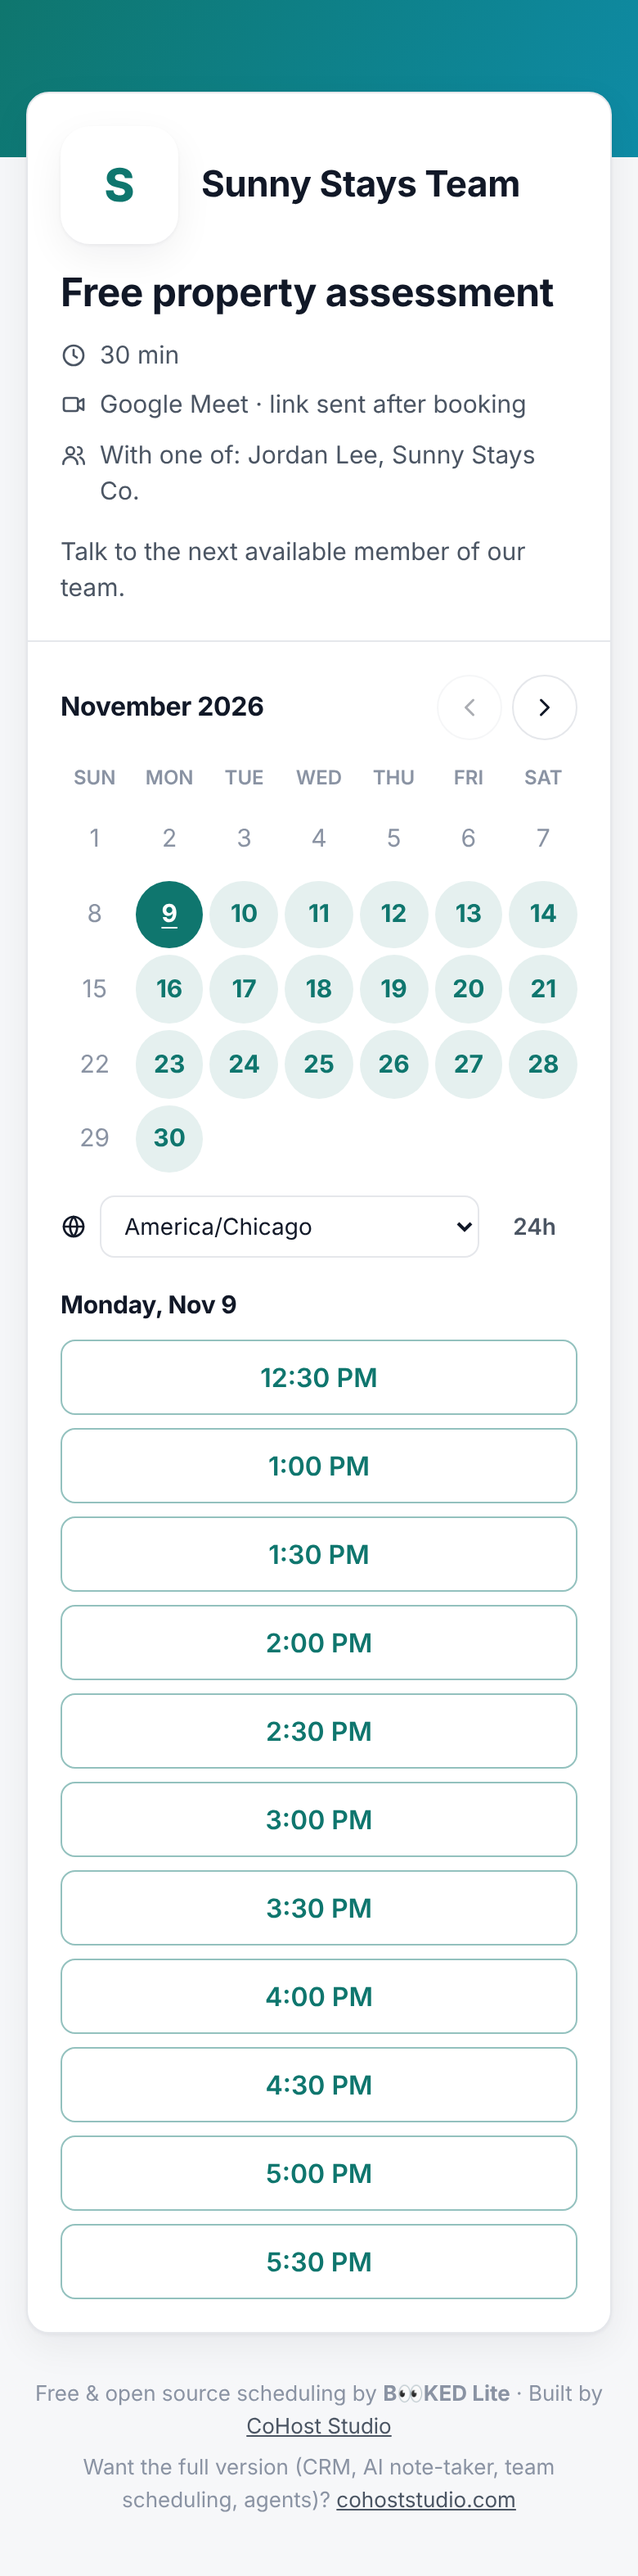
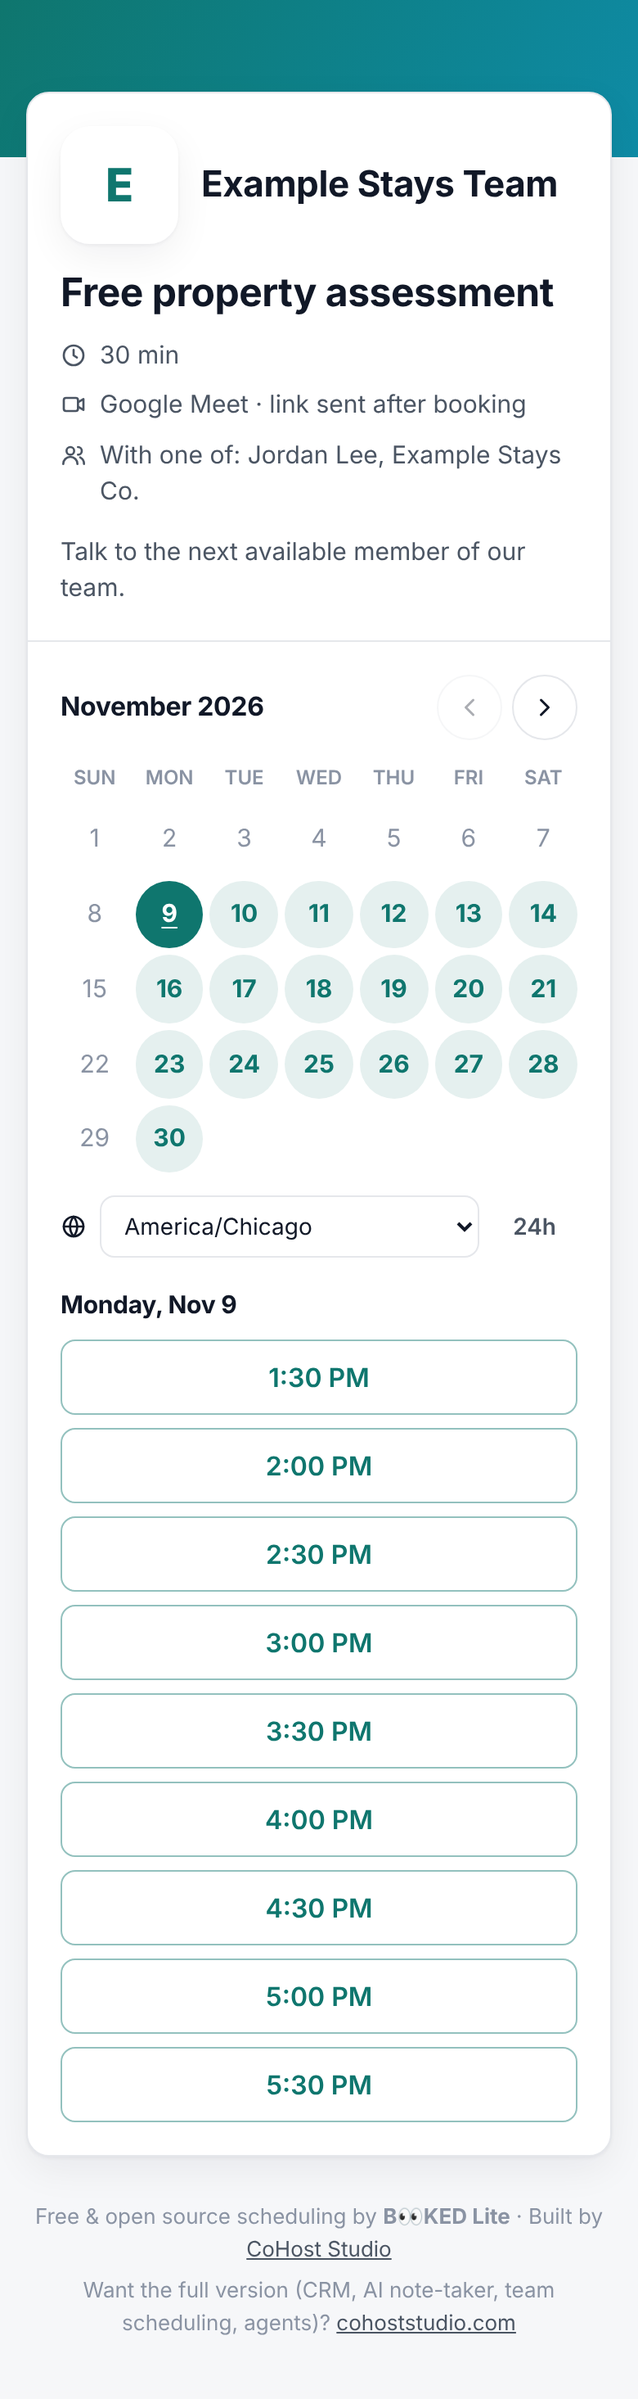
Use clearly fictional placeholders in docs, demo data and tests
Swap example business names, domains and street addresses that could belong
to real people or companies for obviously fictional ones:
- sunnystays.com -> example.com (EMAIL_FROM, APP_URL and domain examples)
- 'Sunny Stays' -> 'Example Stays' (demo host, team, slugs, placeholders)
- Galveston/Austin street addresses -> 'Anytown' addresses
Screenshots regenerated with the new demo data.

Claude-Session: https://claude.ai/code/session_01YPPtRp71J4ZfM5YFDMZosc

diff --git a/e2e/teams-zoom-embed.spec.ts b/e2e/teams-zoom-embed.spec.ts
@@ -1,12 +1,12 @@
 import { test, expect } from "@playwright/test";
 import { calendar, fillGuest, openDay, outbox, zoom } from "./helpers";
 
-// Demo team (see scripts/seed.ts): Sunny Stays Co. works 9–5 Chicago, Jordan works 9–5 Denver (= 10–6 Chicago).
+// Demo team (see scripts/seed.ts): Example Stays Co. works 9–5 Chicago, Jordan works 9–5 Denver (= 10–6 Chicago).
 // The fake calendar is busy 10:00–12:00 Chicago for both on the test day.
 
 test("round robin: guests go to whoever is free, taking turns", async ({ page }) => {
-  await page.goto("/team/sunny-stays");
-  await expect(page.getByRole("heading", { name: "Sunny Stays Team" })).toBeVisible();
+  await page.goto("/team/example-stays");
+  await expect(page.getByRole("heading", { name: "Example Stays Team" })).toBeVisible();
   await page.getByRole("link", { name: /Free property assessment/ }).click();
   await openDay(page);
   // Union of both people's hours: 9:00 (only the owner) and 5:30 PM (only Jordan) are both offered.
@@ -15,7 +15,7 @@ test("round robin: guests go to whoever is free, taking turns", async ({ page })
 
   const hosts: string[] = [];
   for (const guest of ["Ana", "Ben"]) {
-    await page.goto("/team/sunny-stays/assessment");
+    await page.goto("/team/example-stays/assessment");
     await openDay(page);
     await page.getByRole("button", { name: "2:00 PM", exact: true }).click();
     await fillGuest(page, guest, `${guest.toLowerCase()}@example.com`);
@@ -26,20 +26,20 @@ test("round robin: guests go to whoever is free, taking turns", async ({ page })
     hosts.push((await page.getByText(/Free property assessment/).locator("..").textContent()) ?? "");
   }
   expect(hosts[0]).toContain("Jordan Lee");
-  expect(hosts[1]).toContain("Sunny Stays Co.");
+  expect(hosts[1]).toContain("Example Stays Co.");
   // Each host got the event on their own calendar.
   const events = calendar().events.filter((e: { title: string }) => e.title.startsWith("Free property assessment"));
   expect(new Set(events.map((e: { userId: string }) => e.userId)).size).toBe(2);
 
   // Both people are now busy at 2:00, so it's no longer offered.
-  await page.goto("/team/sunny-stays/assessment");
+  await page.goto("/team/example-stays/assessment");
   await openDay(page);
   await expect(page.getByRole("button", { name: "2:30 PM", exact: true })).toBeVisible();
   await expect(page.getByRole("button", { name: "2:00 PM", exact: true })).toHaveCount(0);
 });
 
 test("everyone-together events only offer times when the whole team is free", async ({ page }) => {
-  await page.goto("/team/sunny-stays/kickoff");
+  await page.goto("/team/example-stays/kickoff");
   await openDay(page);
   await expect(page.getByRole("button", { name: "12:00 PM", exact: true })).toBeVisible();
   await expect(page.getByRole("button", { name: "9:00 AM", exact: true })).toHaveCount(0); // Jordan isn't working yet
@@ -47,7 +47,7 @@ test("everyone-together events only offer times when the whole team is free", as
   await page.getByRole("button", { name: "12:00 PM", exact: true }).click();
   await fillGuest(page, "Cara Owner", "cara@example.com");
   await page.getByRole("button", { name: "Confirm booking" }).click();
-  await expect(page.getByText(/with Sunny Stays Co\. & Jordan Lee|with Jordan Lee & Sunny Stays Co\./)).toBeVisible();
+  await expect(page.getByText(/with Example Stays Co\. & Jordan Lee|with Jordan Lee & Example Stays Co\./)).toBeVisible();
   const hostMails = outbox().filter((m) => m.subject.startsWith("New booking: Owner kickoff"));
   expect(hostMails.map((m) => m.to).sort()).toEqual(["demo@example.com", "jordan@example.com"]);
 });
@@ -126,7 +126,7 @@ test("team owner invites a teammate who joins with a magic link", async ({ page,
   await page.getByRole("button", { name: "Continue to my dashboard" }).click();
 
   await page.getByRole("link", { name: "Team", exact: true }).click();
-  await expect(page.getByRole("heading", { name: "Sunny Stays Team" })).toBeVisible();
+  await expect(page.getByRole("heading", { name: "Example Stays Team" })).toBeVisible();
   await page.getByLabel("Invite a teammate by email").fill("riley@example.com");
   await page.getByRole("button", { name: "Send invite" }).click();
   await expect(page.getByText("Invite sent to riley@example.com")).toBeVisible();
@@ -136,7 +136,7 @@ test("team owner invites a teammate who joins with a magic link", async ({ page,
   await expect(page.getByTestId("embed-snippet")).toContainText('<script src="http://localhost:3100/embed.js" async></script>');
 
   const invite = outbox().reverse().find((m) => m.to === "riley@example.com");
-  expect(invite.subject).toContain("invited you to join Sunny Stays Team");
+  expect(invite.subject).toContain("invited you to join Example Stays Team");
   const mate = await browser.newPage();
   await mate.goto(invite.text.match(/https?:\/\/\S+/)[0].replace(/^https?:\/\/[^/]+/, "http://localhost:3100"));
   await mate.getByRole("button", { name: "Accept & continue" }).click();

diff --git a/e2e/screenshots.spec.ts b/e2e/screenshots.spec.ts
@@ -29,7 +29,7 @@ async function book(page: Page, time: string, name: string, email: string) {
   await page.getByRole("button", { name: time, exact: true }).click();
   await page.getByLabel("Your name").fill(name);
   await page.getByLabel("Email").fill(email);
-  await page.getByLabel("Property address").fill("88 Seawall Blvd, Galveston TX");
+  await page.getByLabel("Property address").fill("2 Sample Ave, Anytown");
   await page.getByRole("button", { name: "Confirm booking" }).click();
   await expect(page.getByTestId("booking-heading")).toBeVisible();
 }
@@ -54,7 +54,7 @@ test("screenshots", async ({ browser }) => {
     await page.goto("/demo");
     await shot(page, `${s.name}-profile`);
 
-    await page.goto("/team/sunny-stays/assessment");
+    await page.goto("/team/example-stays/assessment");
     await expect(page.getByRole("grid", { name: "Choose a day" })).toBeVisible();
     await page.waitForTimeout(500);
     await shot(page, `${s.name}-team-event`);
@@ -81,7 +81,7 @@ test("screenshots", async ({ browser }) => {
     await page.getByLabel("Your name").fill("Sam Guest");
     await page.getByLabel("Email").fill("sam@example.com");
     await shot(page, `${s.name}-booking-form`);
-    await page.getByLabel("Property address").fill("12 Beach Rd, Galveston TX");
+    await page.getByLabel("Property address").fill("1 Example Rd, Anytown");
     await page.getByRole("button", { name: "Confirm booking" }).click();
     await expect(page.getByTestId("booking-heading")).toBeVisible();
     await shot(page, `${s.name}-confirmed`);

diff --git a/e2e/booking.spec.ts b/e2e/booking.spec.ts
@@ -4,7 +4,7 @@ import { calendar, meta, openDay, outbox } from "./helpers";
 test("a guest books, gets an email + calendar event, and can cancel", async ({ page }) => {
   const { date } = meta();
   await page.goto("/demo");
-  await expect(page.getByRole("heading", { name: "Sunny Stays Co." })).toBeVisible();
+  await expect(page.getByRole("heading", { name: "Example Stays Co." })).toBeVisible();
   await expect(page.getByText("Built by")).toBeVisible();
   await page.getByRole("link", { name: /Owner intro call/ }).click();
 
@@ -21,7 +21,7 @@ test("a guest books, gets an email + calendar event, and can cancel", async ({ p
   await expect(page.getByTestId("selected-time")).toContainText("1:00 PM");
   await page.getByLabel("Your name").fill("Sam Guest");
   await page.getByLabel("Email").fill("sam@example.com");
-  await page.getByLabel("Property address").fill("12 Beach Rd, Galveston");
+  await page.getByLabel("Property address").fill("1 Example Rd, Anytown");
   await page.getByRole("button", { name: "Confirm booking" }).click();
 
   await expect(page.getByTestId("booking-heading")).toHaveText("You're booked! 🎉");

diff --git a/scripts/seed.ts b/scripts/seed.ts
@@ -26,8 +26,8 @@ async function main() {
     id: userId,
     email,
     username: "demo",
-    name: "Sunny Stays Co.",
-    bio: "We host 12 homes on the Gulf Coast. Grab a time to talk about co-hosting, cleaning schedules, or your next stay.",
+    name: "Example Stays Co.",
+    bio: "We host 12 vacation homes. Grab a time to talk about co-hosting, cleaning schedules, or your next stay.",
     timezone: "America/Chicago",
     brandColor: "#0f766e",
   });
@@ -106,7 +106,7 @@ async function main() {
     brandColor: "#0f766e",
   });
   await db.insert(schema.availability).values({ userId: mateId, weekly: DEFAULT_WEEKLY, overrides: [] });
-  await db.insert(schema.teams).values({ id: "demo-team", ownerId: userId, name: "Sunny Stays Team", slug: "sunny-stays" });
+  await db.insert(schema.teams).values({ id: "demo-team", ownerId: userId, name: "Example Stays Team", slug: "example-stays" });
   await db.insert(schema.teamMembers).values([
     { userId, teamId: "demo-team", role: "owner" },
     { userId: mateId, teamId: "demo-team", role: "member" },

diff --git a/src/app/admin/settings/ProfileForm.tsx b/src/app/admin/settings/ProfileForm.tsx
@@ -62,7 +62,7 @@ export function ProfileForm(p: Props) {
       <div className="grid-2">
         <div>
           <label htmlFor="name">Name shown to guests</label>
-          <input id="name" name="name" type="text" defaultValue={p.name} maxLength={80} placeholder="Alex at Sunny Stays" />
+          <input id="name" name="name" type="text" defaultValue={p.name} maxLength={80} placeholder="Alex at Example Stays" />
         </div>
         <div>
           <label htmlFor="username">Your link name</label>
@@ -72,7 +72,7 @@ export function ProfileForm(p: Props) {
       </div>
       <div>
         <label htmlFor="bio">Short intro</label>
-        <textarea id="bio" name="bio" defaultValue={p.bio} maxLength={1000} placeholder="Short-term rental host in Austin. Book a time to chat about your property." />
+        <textarea id="bio" name="bio" defaultValue={p.bio} maxLength={1000} placeholder="Short-term rental host. Book a time to chat about your property." />
       </div>
       <div>
         <label htmlFor="brandColor">Brand color</label>

diff --git a/tests/lib.test.ts b/tests/lib.test.ts
@@ -57,7 +57,7 @@ describe("locations", () => {
   it("resolves each meeting type", () => {
     expect(resolveLocation("link", "https://zoom.us/j/1", "x")).toBe("https://zoom.us/j/1");
     expect(resolveLocation("phone", "", "x", "+1 555 0100")).toBe("Phone: +1 555 0100");
-    expect(resolveLocation("in_person", "12 Beach Rd", "x")).toBe("12 Beach Rd");
+    expect(resolveLocation("in_person", "1 Example Rd", "x")).toBe("1 Example Rd");
     expect(isUrl("https://x.y/z")).toBe(true);
     expect(isUrl("javascript:alert(1)")).toBe(false);
   });
@@ -69,7 +69,7 @@ describe("misc", () => {
     expect(readableInk("#0f766e")).toBe("#ffffff");
   });
   it("slugifies names", () => {
-    expect(slugify("  Sunny Stays Co.! ")).toBe("sunny-stays-co");
+    expect(slugify("  Example Stays Co.! ")).toBe("example-stays-co");
     expect(slugify("Café Déjà")).toBe("cafe-deja");
   });
 });

diff --git a/src/app/admin/team/TeamForms.tsx b/src/app/admin/team/TeamForms.tsx
@@ -19,7 +19,7 @@ export function CreateTeamForm() {
     <form action={action} className="stack-sm">
       <label htmlFor="team-name">Team name</label>
       <div className="row">
-        <input id="team-name" name="name" type="text" placeholder="Sunny Stays team" required maxLength={80} style={{ flex: "1 1 220px" }} />
+        <input id="team-name" name="name" type="text" placeholder="My rental team" required maxLength={80} style={{ flex: "1 1 220px" }} />
         <button className="btn" disabled={pending}>Create team</button>
       </div>
       <Status state={state} />

diff --git a/src/app/admin/events/[id]/EventForm.tsx b/src/app/admin/events/[id]/EventForm.tsx
@@ -186,7 +186,7 @@ export function EventForm({ eventType: et, baseUrl, teamBaseUrl, team, people, h
           {locationType === "in_person" && (
             <>
               <label htmlFor="locationValue">Address</label>
-              <input id="locationValue" name="locationValue" type="text" defaultValue={et.locationValue} placeholder="123 Main St, Austin, TX" />
+              <input id="locationValue" name="locationValue" type="text" defaultValue={et.locationValue} placeholder="1 Example Rd, Anytown" />
             </>
           )}
         </div>

diff --git a/src/lib/email/templates.ts b/src/lib/email/templates.ts
@@ -20,7 +20,7 @@ export function displayName(u: User) {
   return u.name || u.username;
 }
 
-/** "Alex", "Alex & Sam", or "Alex (Sunny Stays)" for team events. */
+/** "Alex", "Alex & Sam", or "Alex (Example Stays)" for team events. */
 export function hostLabel(ctx: Pick<BookingCtx, "hosts" | "team" | "owner">) {
   const names = (ctx.hosts.length ? ctx.hosts : [ctx.owner]).map(displayName).join(" & ");
   return ctx.team ? `${names} (${ctx.team.name})` : names;

diff --git a/tests/ics.test.ts b/tests/ics.test.ts
@@ -10,7 +10,7 @@ describe("ics", () => {
     title: "Owner intro call, with Sam; welcome",
     description: "Line one\nLine two",
     location: "https://meet.jit.si/OwnerIntro-abc",
-    organizer: { name: "Sunny Stays", email: "host@example.com" },
+    organizer: { name: "Example Stays", email: "host@example.com" },
     attendee: { name: 'Sam "The Guest"', email: "sam@example.com" },
     method: "REQUEST",
     now: Date.UTC(2026, 10, 9, 12, 0),

diff --git a/tests/email-mode.test.ts b/tests/email-mode.test.ts
@@ -18,7 +18,7 @@ describe("guest email mode (no domain yet → forward to host)", () => {
   });
   it("emails guests directly from a verified domain", () => {
     vi.stubEnv("RESEND_API_KEY", "re_test");
-    vi.stubEnv("EMAIL_FROM", "Sunny Stays <bookings@sunnystays.com>");
+    vi.stubEnv("EMAIL_FROM", "Example Stays <bookings@example.com>");
     expect(guestEmailMode()).toBe("send");
   });
 });

diff --git a/SETUP.md b/SETUP.md
@@ -71,7 +71,7 @@ Keep a **private note** open (Apple Notes, a password manager, or paper) to hold
    - Click **Add**, then copy the key (starts with `re_`) into your note as **RESEND_API_KEY**.
 
 **About emailing guests (please read, it's the #1 surprise):**
-Resend only sends email to *other people* once you prove you own a web address (a "domain", like `sunnystays.com`).
+Resend only sends email to *other people* once you prove you own a web address (a "domain", like `example.com`).
 **You don't need one to get started.** Without a domain:
 
 - ✅ You sign in, get "New booking" emails and test everything as normal.
@@ -89,7 +89,7 @@ No domain yet? See **"No domain yet?"** below (about $10 a year). Either way you
    Cloudflare…). If Resend offers an automatic setup button for your provider, use it. Otherwise search
    "add DNS record" + your provider's name for their help page. Then click **Verify**. It can take a few minutes
    up to a few hours.
-4. Once it says **Verified**, add **EMAIL_FROM** in Vercel (step 4), e.g. `Sunny Stays <bookings@sunnystays.com>`
+4. Once it says **Verified**, add **EMAIL_FROM** in Vercel (step 4), e.g. `Example Stays <bookings@example.com>`
    (any name before the @ works, as long as it's your verified domain), then **Redeploy**.
    Until then, leave EMAIL_FROM empty.
 
@@ -158,7 +158,7 @@ Google's screens change often; if a button has a slightly different name, look f
 5. In the search bar, type **Google Auth Platform** (or go to **APIs & Services → OAuth consent screen**).
    Click **Get started**.
 6. Fill in:
-   - **App name:** your business name, e.g. `Sunny Stays Booking`
+   - **App name:** your business name, e.g. `Example Stays Booking`
    - **User support email:** your email → **Next**
    - **Audience:** **External** → **Next**
    - **Contact information:** your email → **Next**
@@ -250,10 +250,10 @@ Reminders go out about 24 hours before each booking.
 
 ## Step 10 (optional): Your own web address
 
-Vercel → your project → **Settings** → **Domains** → add e.g. `book.sunnystays.com` and follow the DNS instructions.
+Vercel → your project → **Settings** → **Domains** → add e.g. `book.example.com` and follow the DNS instructions.
 Then:
-1. Add `APP_URL` = `https://book.sunnystays.com` in Vercel's Environment Variables.
-2. In Google Cloud → **Clients** → your client → add the new redirect URI `https://book.sunnystays.com/api/google/callback`.
+1. Add `APP_URL` = `https://book.example.com` in Vercel's Environment Variables.
+2. In Google Cloud → **Clients** → your client → add the new redirect URI `https://book.example.com/api/google/callback`.
 3. Redeploy.
 4. If you set up Zoom, add the new redirect URL in your Zoom app too.
 
@@ -261,7 +261,7 @@ Then:
 
 ## No domain yet? (the cheapest way to email guests directly)
 
-A domain is your own web address, like `sunnystays.com`. It also makes your emails look professional and land in inboxes
+A domain is your own web address, like `example.com`. It also makes your emails look professional and land in inboxes
 instead of spam. You only need it for **emailing guests and teammates**; everything else works without one
 (see step 3 for what happens until then).
 
@@ -274,7 +274,7 @@ instead of spam. You only need it for **emailing guests and teammates**; everyth
 Steps (Cloudflare shown; others are similar):
 
 1. Sign up at https://dash.cloudflare.com (free). Add a payment card when asked.
-2. **Domain Registration** → **Register Domains** → search a name (e.g. `sunnystays.com`; try `.co` or adding "stays",
+2. **Domain Registration** → **Register Domains** → search a name (e.g. `yourbusinessname.com`; try `.co` or adding "stays",
    "homes" or your town if it's taken) → **Purchase**. Tip: turn off auto-renew of extras; you only need the domain.
 3. In Resend: **Domains** → **Add Domain** → type it → **Add**. If you see a **Cloudflare / automatic setup** button, click it
    and approve. Otherwise copy each record into Cloudflare → your domain → **DNS** → **Records** → **Add record**
@@ -391,7 +391,7 @@ Add the database variables (step 4) and redeploy.
 
 **Guests don't get emails / I get emails saying "Forward to …"**
 That's the no-domain mode: guest emails come to you to forward. Verify a domain in Resend ("No domain yet?" above), set
-`EMAIL_FROM` to an address on that domain, e.g. `Sunny Stays <bookings@sunnystays.com>`, and redeploy.
+`EMAIL_FROM` to an address on that domain, e.g. `Example Stays <bookings@example.com>`, and redeploy.
 `/api/health` shows `emailFromCustomDomain: true` once it's right. Also check Resend → **Domains** says **Verified**.
 
 **I don't get any emails at all (not even "New booking")**
